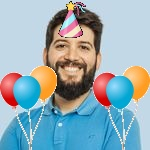
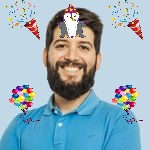
colocar resto enfeites

diff --git a/faceDetection.py b/faceDetection.py
@@ -15,12 +15,15 @@ def detect_faces(img):
     
     return face_rect
 
-#colocar objetos por cima da cabeça 
-def object_above_head(img, face_rect, object_img, object_img2):
+#colocar objetos na imagem 
+def object_above_head(img, face_rect, object_img, object_img2, object_img3):
     img_final = img.copy()
+
     objH, objW = object_img.shape[:2] #para ter o comprimento e a largura do primeiro objeto
 
     objH2, objW2 = object_img2.shape[:2] #do segundo objeto
+
+    objH3, objW3 = object_img3.shape[:2] #do terceiro
 
     for (x, y, w, h) in face_rect:
         pos_x = int(x + w / 2 - objW / 2)#posicao x para a imagem
@@ -34,28 +37,48 @@ def object_above_head(img, face_rect, object_img, object_img2):
 
         for i in range(objH):
             for j in range(objW):
-                if object_img[i, j, 3] > 0:  # Check if the pixel is not transparent
+                if object_img[i, j, 3] > 0:  # Check if the pixel is not transparent    
                     if 0 <= pos_y + i < img_final.shape[0] and 0 <= pos_x + j < img_final.shape[1]:
                         img_final[pos_y + i, pos_x + j] = object_img[i, j, :3]
 
+        #segundo enfeite
         positions2 = [
             (int(x + w), int(y + h)),  #direita
             (int(x - h), int(y + h ))  #esquerda
         ]
         
         for pos_x2, pos_y2 in positions2: 
-            # Boundary check for the second object
+        
             pos_x2 = max(0, min(pos_x2, img_final.shape[1] - objW2))
             pos_y2 = max(0, min(pos_y2, img_final.shape[0] - objH2))
 
-            print(f"posições do objeto2: ({pos_x}, {pos_y})")
+            print(f"posições do objeto2: ({pos_x2}, {pos_y2})")
 
-             # Apply the second object
             for i in range(objH2):
                 for j in range(objW2):
-                    if object_img2[i, j, 3] > 0:  # Check if the pixel is not transparent
+                    if object_img2[i, j, 3] > 0: 
                         if 0 <= pos_y2 + i < img_final.shape[0] and 0 <= pos_x2 + j < img_final.shape[1]:
                             img_final[pos_y2 + i, pos_x2 + j] = object_img2[i, j, :3]
+
+        #terceiro enfeite
+
+        positions3 = [
+            (int(x + w), int(y - h)),  #direita
+            (int(x - h), int(y - h ))  #esquerda
+        ]
+        
+        for pos_x3, pos_y3 in positions3: 
+        
+            pos_x3 = max(0, min(pos_x3, img_final.shape[1] - objW3))
+            pos_y3 = max(0, min(pos_y3, img_final.shape[0] - objH3))
+
+            print(f"posições do objeto3: ({pos_x3}, {pos_y3})")
+
+            for i in range(objH3):
+                for j in range(objW3):
+                    if object_img3[i, j, 3] > 0:  # Check if the pixel is not transparent
+                        if 0 <= pos_y3 + i < img_final.shape[0] and 0 <= pos_x3 + j < img_final.shape[1]:
+                            img_final[pos_y3 + i, pos_x3 + j] = object_img3[i, j, :3]
     return img_final
 
 #adicionar texto à imagem
@@ -83,7 +106,6 @@ def detect_eyes(img):
     
     return eye_img
 
-
 #detetar o corpo
 def detect_fullbody(img):
     fullbody_img = img.copy()
@@ -94,14 +116,21 @@ def detect_fullbody(img):
 
     return fullbody_img
 
-#caminho das imagens de enfeites acima da cabeça
-images_enfeite = 'enfeites/acimaDaCabeca'
-enfeites_folder = glob.glob(os.path.join(images_enfeite, '*'))
+#caminho das imagens de enfeites acima da cabeça/hat
+enfeite_hat = 'enfeites/hats'
+enfeites_folder_hat = glob.glob(os.path.join(enfeite_hat, '*'))
 
-#caminho das imagens de enfeites ao lado da cabeça
-images_enfeite2 = 'enfeites/baloes'
-enfeites_folder2 = glob.glob(os.path.join(images_enfeite2, '*'))
+#caminho das imagens de enfeites ao lado da cabeça/baloons
+enfeite_baloons = 'enfeites/baloons'
+enfeites_folder_baloons = glob.glob(os.path.join(enfeite_baloons, '*'))
 
+#caminho das imagens de enfeites ao lado da cabeça/confety
+enfeite_confety = 'enfeites/confety'
+enfeites_folder_confety = glob.glob(os.path.join(enfeite_confety, '*'))
+
+#dimensoes para enfeites
+new_width = 40
+new_height = 40
 
 #caminho das imagens do insta
 image_folder = 'images'
@@ -117,11 +146,17 @@ for i, image_file in enumerate(image_files):
     img = cv2.imread(image_file)
 
     #escolher um enfeite para cada imagem
-    enfeites_random = random.choice(enfeites_folder)
-    object_img = cv2.imread(enfeites_random, cv2.IMREAD_UNCHANGED) #para verificar a transparencia
+    enfeites_random_hat = random.choice(enfeites_folder_hat)
+    object_img = cv2.imread(enfeites_random_hat, cv2.IMREAD_UNCHANGED) #para verificar a transparencia
+    enfeites_random_resize_hat = cv2.resize(object_img, (new_width, new_height))
 
-    enfeites_random2 = random.choice(enfeites_folder2)
-    object_img2 = cv2.imread(enfeites_random2, cv2.IMREAD_UNCHANGED)
+    enfeites_random_baloon = random.choice(enfeites_folder_baloons)
+    object_img2 = cv2.imread(enfeites_random_baloon, cv2.IMREAD_UNCHANGED)
+    enfeites_random_resize_baloon = cv2.resize(object_img2, (new_width, new_height))
+
+    enfeites_random_confety = random.choice(enfeites_folder_confety)
+    object_img3 = cv2.imread(enfeites_random_confety, cv2.IMREAD_UNCHANGED)
+    enfeites_random_resize_confety = cv2.resize(object_img3, (new_width, new_height))
 
     face_detection = detect_faces(img)
     
@@ -130,7 +165,12 @@ for i, image_file in enumerate(image_files):
         print(f"nenhuma cara detetada {image_file}")
         continue
 
-    img_object = object_above_head(img, face_detection, object_img, object_img2)
+    img_object = object_above_head(img, face_detection, enfeites_random_resize_hat, enfeites_random_resize_baloon, enfeites_random_resize_confety)
+
+    #remover os enfeites usados
+    os.remove(enfeites_random_hat)
+    os.remove(enfeites_random_baloon)
+    os.remove(enfeites_random_confety)
 
     """ filename_read = f"gemini_res/insta_{i+1}.txt"
     with open(filename_read, "r", encoding="utf-8") as f:
